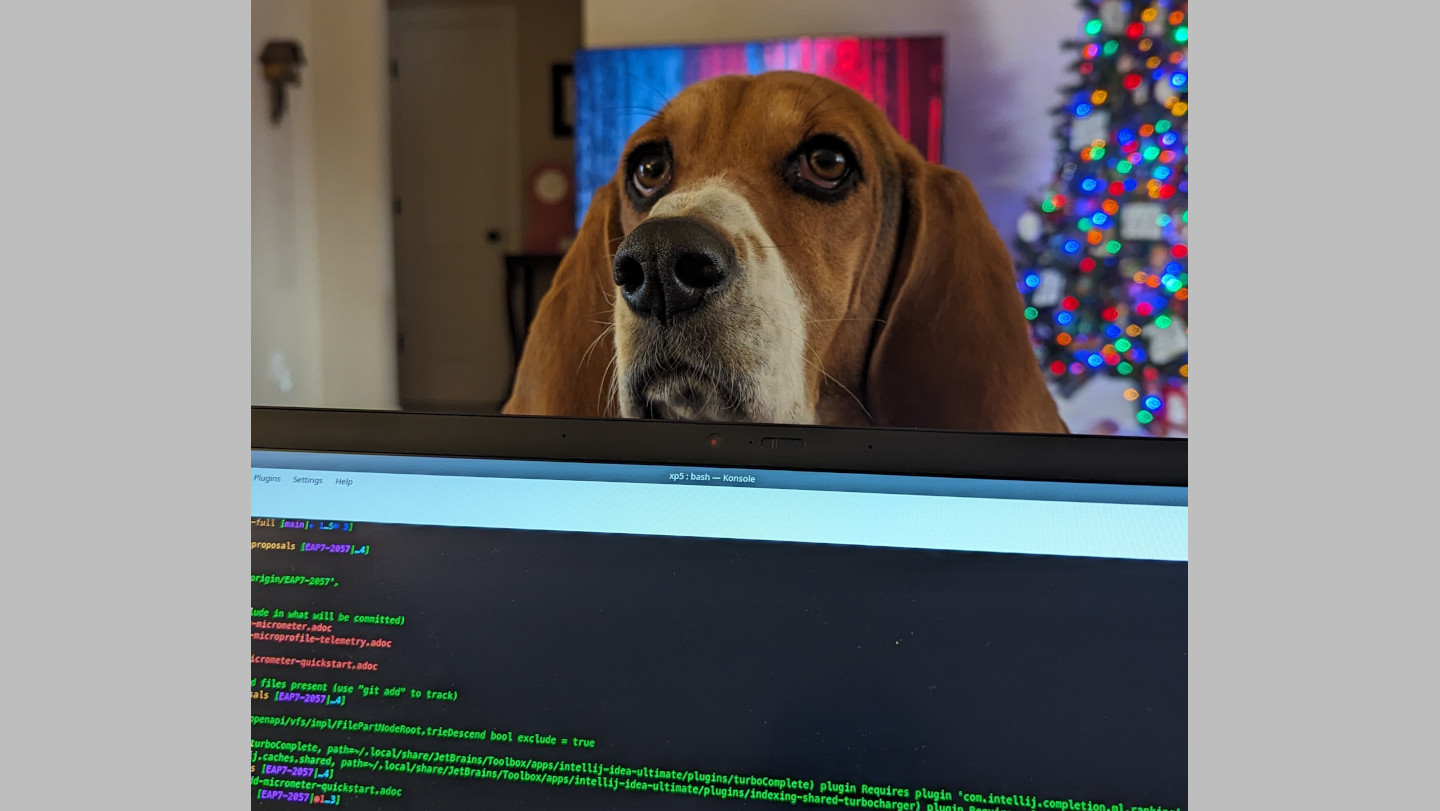
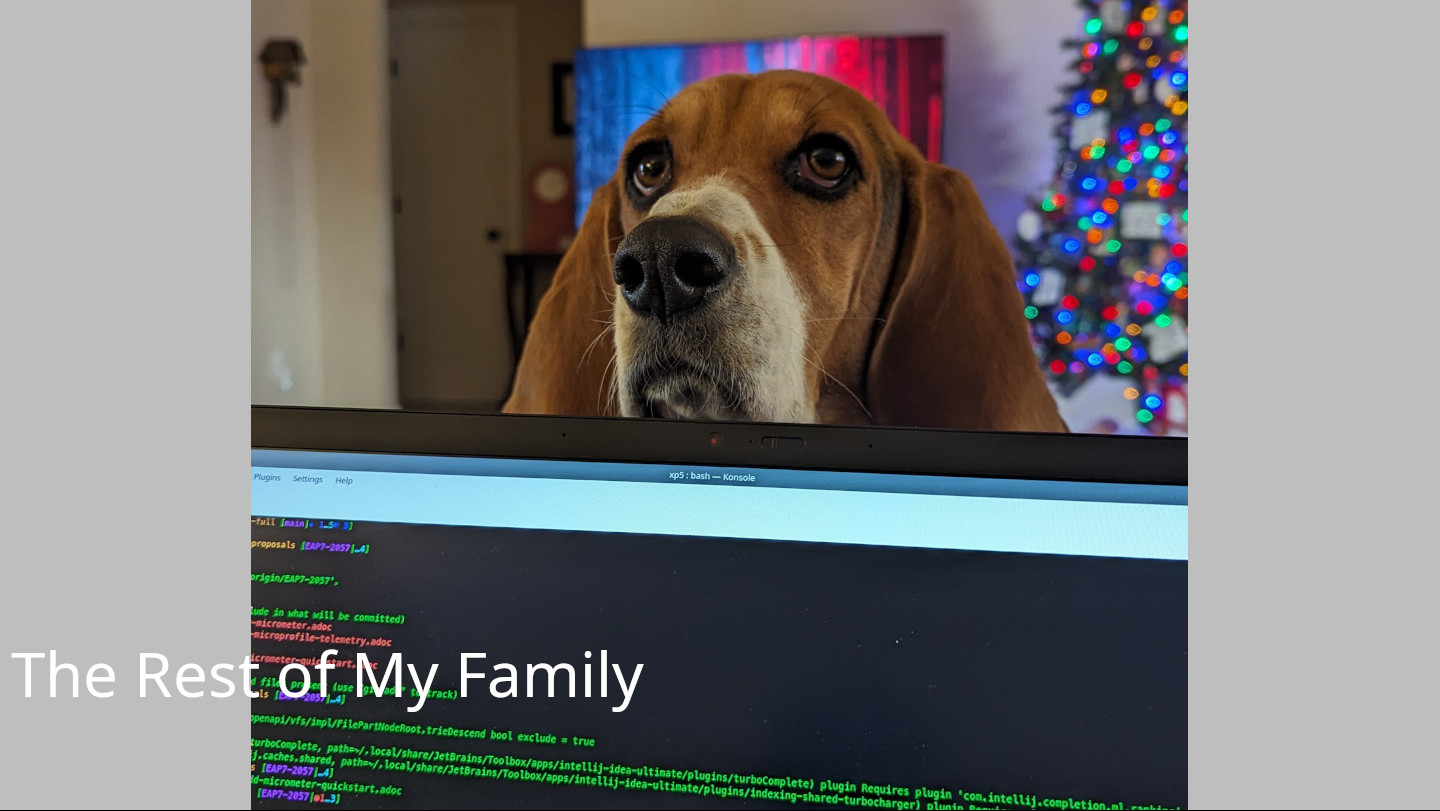
Formatting fixes for smaller screens

diff --git a/slides/index.html b/slides/index.html
@@ -22,8 +22,8 @@
     <div class="slides">
         <section data-background-image="img/redhat_bg.png" style="color: white; padding-top: 100px;">
             <!-- This is the first slide -->
-            <h1 class="r-fit-text" style="color: white;">Supersonic, Subatomic GitHub</h1>
-            <span style="atext-align: left">
+            <h1 class="r-fit-text" style="color: white; font-size: 6vw;">Supersonic, Subatomic GitHub</h1>
+            <span style="font-size: 3vw">
                 <p>Jason Lee</p>
                 <p>Principal Software Engineer</p>
                 <p>Red Hat</p>
@@ -35,13 +35,15 @@
             <!-- This is the second slide, the speaker's info -->
             <h3>About Me</h3>
             <ul>
-                <li class="fragment" data-fragment-index="1">I’m a Principal Software Engineer at Red Hat
-                    <img class="fragment"  data-fragment-index="3" src="img/duke_champion.png" style="height: 150px; float: right;">
-                </li>
+                <li class="fragment" data-fragment-index="1">I’m a Principal Software Engineer at Red Hat</li>
                 <li class="fragment" data-fragment-index="2">Software developer since 1997</li>
-                <li class="fragment" data-fragment-index="3">Java Champion</li>
+                <li class="fragment" data-fragment-index="3">
+                    Java Champion
+                    <img src="img/duke_champion.png" style="height: 50px; vertical-align: bottom;">
+                </li>
                 <li class="fragment" data-fragment-index="5">
-                    President of the <a href="https://okcjug.org">Oklahoma City Java Users' Group</a>
+                    President of the <a href="https://okcjug.org">Oklahoma City Java Users Group</a>
+                    <img src="https://okcjug.org/img/logo-vertical.png" style="height: 75px; vertical-align: bottom; float: right;">
                 </li>
                 <li class="fragment" data-fragment-index="6">
                     Author -
@@ -54,16 +56,10 @@
             </ul>
         </section>
 
-        <section data-background-image="img/seine.jpg">
-            <div style="font-weight: bold; font-size: xxx-large; position: absolute; bottom: -17em; color: white;">
-                My Family
-            </div>
+        <section data-background-image="img/seine.jpg" style="position: relative">
         </section>
 
-        <section data-background-image="img/sophie.jpg">
-            <div style="font-weight: bold; font-size: xxx-large; position: absolute; bottom: -17em; color: white;">
-                The Rest of My Family
-            </div>
+        <section data-background-image="img/sophie.jpg" style="position: relative">
         </section>
 
         <section>
